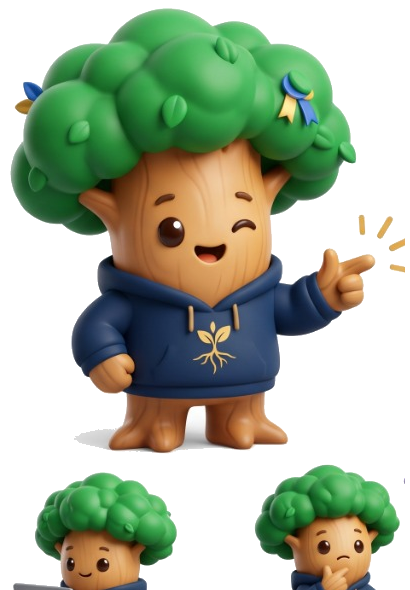
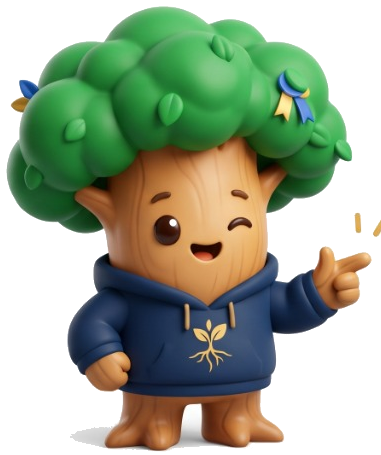
fix(mascot): remove stray bottom mascot heads and particles, render exactly 1 clean single 3D mascot

diff --git a/apps/web/src/components/JatiMascot.tsx b/apps/web/src/components/JatiMascot.tsx
@@ -129,14 +129,6 @@ export function JatiMascot({
         </div>
       )}
 
-      {/* 3D Orbiting Ambient Particles */}
-      {autoFloat && (
-        <div className="jati-ambient-particles">
-          <span className="particle p1" style={{ transform: `translate3d(${tilt.y * 0.4}px, ${-tilt.x * 0.4}px, 20px)` }}>✨</span>
-          <span className="particle p2" style={{ transform: `translate3d(${-tilt.y * 0.3}px, ${tilt.x * 0.3}px, 15px)` }}>🌱</span>
-        </div>
-      )}
-
       {/* 3D Responsive Mascot Body with Interactive Tilt & Natural Breathing */}
       <div
         className={`jati-body-container ${autoFloat ? 'is-floating' : ''} ${isBouncing ? 'is-bouncing' : ''} ${isBlinking ? 'is-blinking' : ''}`}
